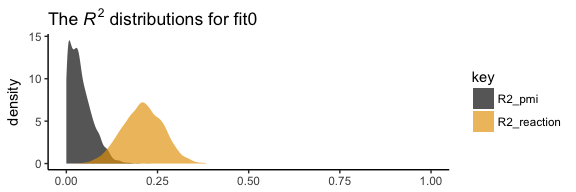
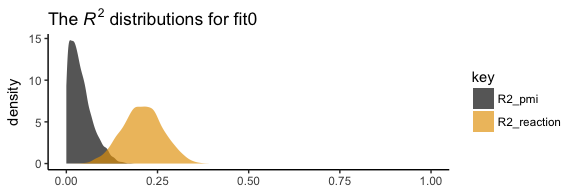
got c and cprime in there

diff --git a/Chapter_03.md b/Chapter_03.md
@@ -1,7 +1,7 @@
 Chapter 03
 ================
 A Solomon Kurz
-2018-05-28
+2018-05-29
 
 3.2. Example with dichotomous *X*: The influence of presumed media influence
 ----------------------------------------------------------------------------
@@ -138,16 +138,16 @@ print(fit0)
     ## 
     ## Population-Level Effects: 
     ##                    Estimate Est.Error l-95% CI u-95% CI Eff.Sample Rhat
-    ## reaction_Intercept     0.53      0.54    -0.52     1.59       4000 1.00
-    ## pmi_Intercept          5.38      0.17     5.05     5.71       4000 1.00
-    ## reaction_pmi           0.51      0.10     0.31     0.70       4000 1.00
-    ## reaction_cond          0.25      0.26    -0.25     0.75       4000 1.00
-    ## pmi_cond               0.48      0.24     0.01     0.96       4000 1.00
+    ## reaction_Intercept     0.53      0.55    -0.52     1.61       4000 1.00
+    ## pmi_Intercept          5.38      0.16     5.06     5.69       4000 1.00
+    ## reaction_pmi           0.51      0.10     0.32     0.69       4000 1.00
+    ## reaction_cond          0.26      0.26    -0.25     0.77       4000 1.00
+    ## pmi_cond               0.48      0.24     0.01     0.95       4000 1.00
     ## 
     ## Family Specific Parameters: 
     ##                Estimate Est.Error l-95% CI u-95% CI Eff.Sample Rhat
-    ## sigma_reaction     1.41      0.09     1.25     1.59       4000 1.00
-    ## sigma_pmi          1.32      0.09     1.17     1.51       4000 1.00
+    ## sigma_reaction     1.41      0.10     1.24     1.62       4000 1.00
+    ## sigma_pmi          1.32      0.09     1.16     1.50       4000 1.00
     ## 
     ## Samples were drawn using sampling(NUTS). For each parameter, Eff.Sample 
     ## is a crude measure of effective sample size, and Rhat is the potential 
@@ -162,9 +162,9 @@ fixef(fit0)[3:5, ] %>% round(digits = 3)
 ```
 
     ##               Estimate Est.Error   Q2.5 Q97.5
-    ## reaction_pmi     0.506     0.098  0.314 0.698
-    ## reaction_cond    0.251     0.258 -0.246 0.752
-    ## pmi_cond         0.482     0.243  0.014 0.956
+    ## reaction_pmi     0.505     0.096  0.316 0.690
+    ## reaction_cond    0.257     0.256 -0.254 0.770
+    ## pmi_cond         0.479     0.238  0.012 0.948
 
 Also note that Hayes tends to refer to the intercepts as constants.
 
@@ -175,12 +175,13 @@ bayes_R2(fit0) %>% round(digits = 3)
 ```
 
     ##             Estimate Est.Error  Q2.5 Q97.5
-    ## R2_reaction    0.209     0.055 0.101 0.315
-    ## R2_pmi         0.040     0.032 0.001 0.116
+    ## R2_reaction    0.209     0.055 0.102 0.315
+    ## R2_pmi         0.039     0.031 0.000 0.115
 
 It's worth it to actually plot the *R*<sup>2</sup> distributions.
 
 ``` r
+# we'll get our color palette from ggthemes
 library(ggthemes)
 
 bayes_R2(fit0, summary = F) %>% 
@@ -211,15 +212,15 @@ You can isolate them with `fixef()[i]`.
 fixef(fit0)[5 , ]
 ```
 
-    ##  Estimate Est.Error      Q2.5     Q97.5 
-    ## 0.4819944 0.2430722 0.0135772 0.9562304
+    ##   Estimate  Est.Error       Q2.5      Q97.5 
+    ## 0.47936648 0.23776524 0.01203656 0.94816819
 
 ``` r
 fixef(fit0)[3 , ]
 ```
 
-    ##  Estimate Est.Error      Q2.5     Q97.5 
-    ## 0.5060646 0.0976633 0.3141897 0.6980785
+    ##   Estimate  Est.Error       Q2.5      Q97.5 
+    ## 0.50500954 0.09595046 0.31601740 0.68966730
 
 So the naive approach would be to just multiply them.
 
@@ -228,7 +229,7 @@ So the naive approach would be to just multiply them.
 ```
 
     ##  Estimate Est.Error      Q2.5     Q97.5 
-    ##     0.244     0.024     0.004     0.668
+    ##     0.242     0.023     0.004     0.654
 
 Now, this does get us the correct 'Estimate' (i.e., posterior mean). However, the posterior *S**D* and 95% intervals are off. If you want to do this properly, you need to work with the poster samples themselves. Here they are:
 
@@ -240,14 +241,14 @@ glimpse(post)
 
     ## Observations: 4,000
     ## Variables: 8
-    ## $ b_reaction_Intercept <dbl> 0.75775425, 0.80799622, 0.27800519, 0.95328528, 1.00721986, 1.26748526, -0.1...
-    ## $ b_pmi_Intercept      <dbl> 5.568519, 5.246249, 5.555607, 5.325756, 5.357816, 5.348240, 5.398154, 5.0983...
-    ## $ b_reaction_pmi       <dbl> 0.4906762, 0.4781968, 0.5356177, 0.4327614, 0.4134809, 0.4103802, 0.5878054,...
-    ## $ b_reaction_cond      <dbl> 0.12545875, 0.42504991, 0.08036166, 0.46447436, 0.35691319, 0.14674151, 0.31...
-    ## $ b_pmi_cond           <dbl> -0.228103534, 0.897404248, 0.059609017, 0.677536124, 0.473503990, 0.53950804...
-    ## $ sigma_reaction       <dbl> 1.346505, 1.409901, 1.407250, 1.367248, 1.369626, 1.388301, 1.410006, 1.3849...
-    ## $ sigma_pmi            <dbl> 1.317257, 1.335113, 1.284563, 1.365747, 1.340849, 1.181413, 1.449527, 1.3403...
-    ## $ lp__                 <dbl> -436.8911, -434.6342, -434.0985, -432.9711, -431.9473, -433.9431, -434.0656,...
+    ## $ b_reaction_Intercept <dbl> -0.28115970, 0.62200831, 0.58157332, 0.02143685, -0.41197137, 0.28864804, 0....
+    ## $ b_pmi_Intercept      <dbl> 5.321566, 5.460493, 5.286848, 5.502795, 5.752869, 5.325021, 5.300863, 5.4520...
+    ## $ b_reaction_pmi       <dbl> 0.6270093, 0.5406060, 0.4502046, 0.6240616, 0.6762247, 0.5599866, 0.4503599,...
+    ## $ b_reaction_cond      <dbl> 0.27527959, 0.23810965, 0.24557968, 0.07715507, 0.09369346, 0.10183750, 0.24...
+    ## $ b_pmi_cond           <dbl> 0.63671042, 0.61464757, 0.34907679, 0.27577554, -0.06624962, 0.35854652, 0.3...
+    ## $ sigma_reaction       <dbl> 1.407755, 1.336900, 1.463407, 1.428664, 1.414679, 1.308803, 1.352680, 1.4810...
+    ## $ sigma_pmi            <dbl> 1.335458, 1.369248, 1.254629, 1.182069, 1.281619, 1.297255, 1.288574, 1.3191...
+    ## $ lp__                 <dbl> -432.9393, -435.3835, -435.0549, -434.0420, -436.3363, -432.5405, -432.1107,...
 
 Here we compute the indirect effect, `ab`.
 
@@ -265,7 +266,7 @@ quantile(post$ab, probs = c(.5, .025, .975)) %>%
 ```
 
     ##   50%  2.5% 97.5% 
-    ## 0.236 0.006 0.534
+    ## 0.235 0.006 0.516
 
 And we can even visualize it as a density.
 
@@ -274,7 +275,7 @@ post %>%
   
   ggplot(aes(x = ab)) +
   geom_density(color = "transparent", 
-               fill = colorblind_pal()(2)[2]) +
+               fill = colorblind_pal()(3)[3]) +
   scale_y_continuous(NULL, breaks = NULL) +
   labs(title = expression(paste("Our indirect effect, the ", italic("ab"), " pathway")),
        x = NULL) +
@@ -282,6 +283,119 @@ post %>%
 ```
 
 ![](Chapter_03_files/figure-markdown_github/unnamed-chunk-18-1.png)
+
+It's also worth pointing out that as the indirect effect isn't perfectly symmetric, it's mean and median aren't quite the same.
+
+``` r
+post %>% 
+  summarize(mean = mean(ab),
+            median = median(ab)) %>% 
+  round(digits = 3)
+```
+
+    ##    mean median
+    ## 1 0.241  0.235
+
+Their magnitudes are similar, but this asymmetry will be a source of contrast to our estimates and those in the text.
+
+On page 90, Hayes computed the *adjusted means* for *Y*. For both `cond == 1` and `cond == 0`, he computed the expected values for `reaction` when `pmi` was at its mean. A natural way to do that in brms is with fitted. First, we'll put our input values for `cond` and `pmi` in a tibble, which we'll call `nd`. Then we'll feed `nd` into the `newdata` argument within the `fitted()` function.
+
+``` r
+nd <-
+  tibble(cond = 1:0,
+         pmi = mean(p$pmi))
+
+fitted(fit0, newdata = nd)
+```
+
+    ## , , reaction
+    ## 
+    ##      Estimate Est.Error     Q2.5    Q97.5
+    ## [1,] 3.615226 0.1894777 3.238465 3.971558
+    ## [2,] 3.357784 0.1768709 3.006871 3.703902
+    ## 
+    ## , , pmi
+    ## 
+    ##      Estimate Est.Error     Q2.5    Q97.5
+    ## [1,] 5.857917 0.1703916 5.521682 6.193695
+    ## [2,] 5.378551 0.1599040 5.058301 5.690644
+
+Because `fit0` is a multivariate model, `fitted()` returns the model-implied summaries for both `reaction` and `pmi`. If you just want the adjusted means for `reaction`, you can use the `resp` argument within `fitted()`.
+
+``` r
+fitted(fit0, newdata = nd, resp = "reaction") %>% round(digits = 3)
+```
+
+    ##      Estimate Est.Error  Q2.5 Q97.5
+    ## [1,]    3.615     0.189 3.238 3.972
+    ## [2,]    3.358     0.177 3.007 3.704
+
+Note how this is where the two values in the *Y* adjusted column in Table 3.1 came from.
+
+However, if we want to reproduce how Hayes computed the total effect (i.e. *c*<sup>′</sup> + *a**b*), we'll need to work with the posterior itself, `post`. Recall, we've already saved the indirect effect as a vector, `ab`. The direct effect, *c*<sup>′</sup>, is labeled `b_reaction_cond` within `post`. in order to get the total effect, *c*, all we need to is add those vectors together.
+
+``` r
+post <-
+  post %>% 
+  mutate(total_effect = b_reaction_cond + ab)
+```
+
+Here's the posterior mean with its 95% intervals
+
+``` r
+post %>% 
+  summarize(mean = mean(total_effect),
+            ll = quantile(total_effect, prob = .025),
+            ul = quantile(total_effect, prob = .975))
+```
+
+    ##        mean          ll       ul
+    ## 1 0.4986968 -0.04308541 1.057497
+
+### ~~Estimation of the model in PROCESS for SPSS and SAS~~
+
+Nothing new for us, here.
+
+3.4 Statistical inference
+-------------------------
+
+### Inference about hte direct effect of *X* on *Y*
+
+In this section, Hayes provides a *t* test and corresponding *p*-value for the direct effect (i.e., *c*<sup>′</sup>, `b_reaction_cond`). Instead of the *t* test, we can just look at the posterior distribution.
+
+``` r
+post %>% 
+  
+  ggplot(aes(x = b_reaction_cond)) +
+  geom_density(color = "transparent", 
+               fill = colorblind_pal()(4)[4]) +
+  geom_vline(xintercept = 0, color = "white", linetype = 2) +
+  scale_y_continuous(NULL, breaks = NULL) +
+  labs(title = expression(paste("Yep, 0 is a credible value for ", italic("c"), ".")),
+       x = NULL) +
+  theme_classic()
+```
+
+![](Chapter_03_files/figure-markdown_github/unnamed-chunk-24-1.png)
+
+If you wanted to quantify what proportion of the density was less than 0, you could do:
+
+``` r
+post %>% 
+  summarize(proportion_below_zero = filter(., b_reaction_cond < 0) %>% nrow()/nrow(.))
+```
+
+    ##   proportion_below_zero
+    ## 1                0.1575
+
+This is something like a Bayesian *p*-value. But of course, you could always just look at the posterior intervals.
+
+``` r
+posterior_interval(fit0)["b_reaction_cond", ]
+```
+
+    ##       2.5%      97.5% 
+    ## -0.2535087  0.7695793
 
 **More to come**
 
